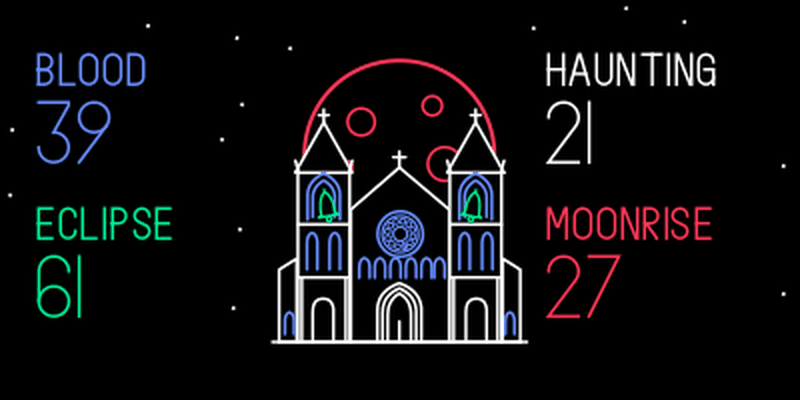
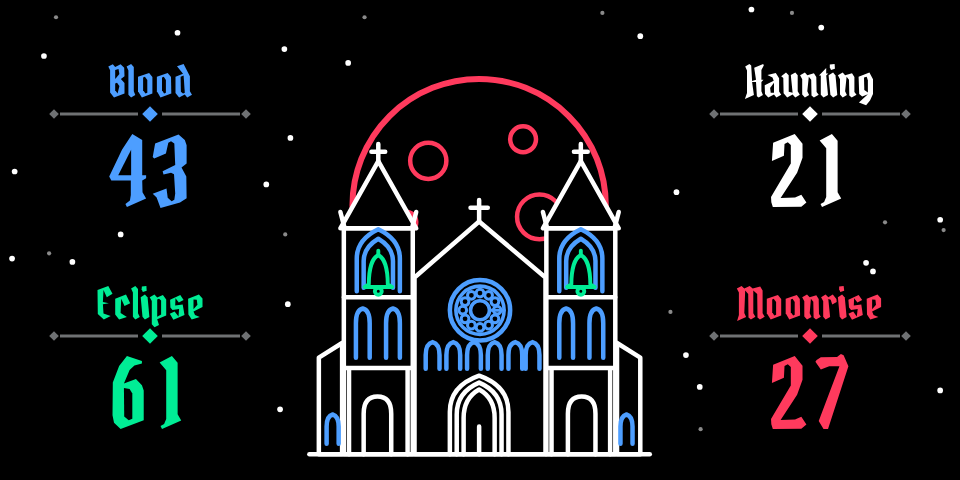
feat(plugins): Bloodmoon from Nola Drift's repo: hundekraft 1.4 (install over USB) and opus 1.5.2

diff --git a/plugins/bloodmoon/manual.md b/plugins/bloodmoon/manual.md
@@ -2,17 +2,35 @@
 
 *A dark organ with a haunted bell.*
 
-Bloodmoon by Nola Drift (SammiBabe666) is a gothic organ. Every note is a pipe with its 2nd, 3rd and 4th harmonics, and a bell strikes on top of it. The bell's two partials sit a little off the organ, close to a minor third, so it never quite agrees with the pipes. A slow vibrato fades in after the attack, with a faint wobble under it, so held notes drift like old pipes.
+Bloodmoon by Nola Drift is a gothic organ with a haunted bell. Every note is a pipe with its 2nd, 3rd and 4th harmonics, and a bell strikes on top of it, a little off the organ, close to a minor third. A slow vibrato fades in after the attack with a faint wobble under it, so held notes drift like old pipes. On screen, a black cathedral under a blood-red moon moves with every knob.
+
+## Controls
+
+| Encoder | Name | What it does | On screen |
+|---|---|---|---|
+| Blue | Blood | Harmonic richness: hollow and thin at the bottom, thick and dark at the top | The rose window turns |
+| Green | Eclipse | The bell: how loud it strikes and how long it rings. Fully down, no bell | The tower bells swing |
+| White | Haunting | Vibrato depth (up to about ±73 cents, after the attack) and a steady pitch drift | The stars flicker |
+| Orange | Moonrise | Vibrato and wobble speed, from about 0.15 Hz to 9 Hz, mostly slow | The moon rises |
+
+Shape the attack and release with the OP-1's own envelope on T2. The repo has eight presets (cathedral, funeral bell, crypt drone and five more) for the hundekraft build.
 
 ## Who made it
 
-It's from Project Bloodmoon by Nola Drift, published by SammiBabe666. Hundekraft brought it to the OP-1.
+Bloodmoon is by Nola Drift ([Project_Bloodmoon](https://github.com/SammiBabe666/Project_Bloodmoon), GPL-3.0-or-later with the OP-1 firmware permission), published by SammiBabe666. It's also part of hundekraft's workshop.
 
 ## Get it
 
-Bloodmoon is part of hundekraft 3.2.6, a custom firmware for the original OP-1. Tick it in the [hundekraft workshop](https://hundekraft.github.io/op1-workshop/) and install it from there. co-op lists it for reference and hosts no copy.
+There are two builds for the original OP-1 (firmware 246); install only one.
+
+- **hundekraft:** bloodmoon.knl 1.4, for hundekraft 3.0 or newer. Install over USB from its card here (co-op fetches the file from the author's repo and checks it), add it under Your plugins in the [hundekraft workshop](https://hundekraft.github.io/op1-workshop/), or tick it there, where it comes with hundekraft 3.2.6.
+- **opus:** bloodmoon.opmod 1.5.2, for Opus core 2.6 or newer. In disk mode, copy it into the OP-1's `mods` folder and restart; the mods list should say it's loaded.
+
+The author notes that neither build has been confirmed on a real OP-1 yet (the op1r build 1.3 has), so back up first and start with the volume low. co-op lists it for reference and hosts no copy.
 
 ## Links
 
-- [Bloodmoon in the hundekraft manual](https://hundekraft.github.io/op1-workshop/manual.html#bloodmoon): every control and page
+- [Download and install steps](https://github.com/SammiBabe666/Project_Bloodmoon/tree/main/download): the zip with both builds and the presets
 - [Source](https://github.com/SammiBabe666/Project_Bloodmoon)
+- [Preset guide](https://github.com/SammiBabe666/Project_Bloodmoon/blob/main/docs/preset-guide.md)
+- [Bloodmoon in the hundekraft manual](https://hundekraft.github.io/op1-workshop/manual.html#bloodmoon)
